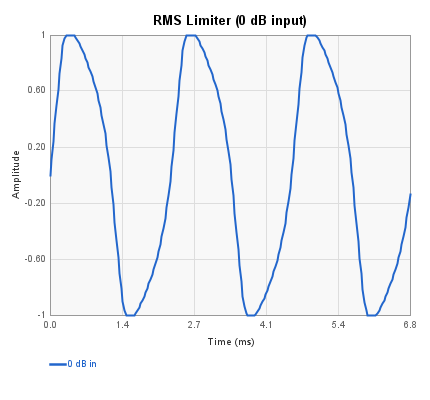
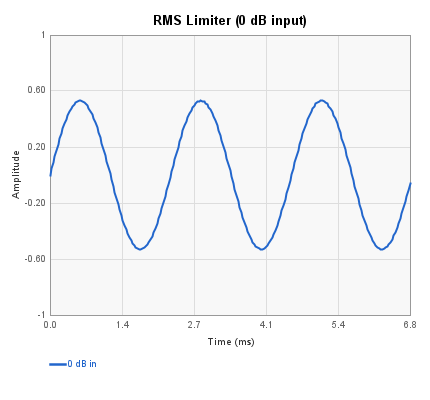
Fix RMS Limiter: detect at full scale, make sidechain optional
The RMS detector was starved by the default inGain=0.1, causing the
LOG/EXP gain chain to always return maximum (no reduction). Now detection
runs at full scale (1.0) and inGain controls output level only. When
Side Chain is not connected, gain is applied to the main input directly.
Averaging slowed from 0.1 to 0.001 to match RMS Lim/Exp behavior.

diff --git a/src-gen/com/holycityaudio/SpinCAD/CADBlocks/rms_limiterCADBlock.java b/src-gen/com/holycityaudio/SpinCAD/CADBlocks/rms_limiterCADBlock.java
@@ -36,8 +36,8 @@
 			private int output;
 			private int square;
 			private int logPin;
-			private double inGain = 0.1;
-			private double filt = 0.1;
+			private double inGain = 1.0;
+			private double filt = 0.001;
 
 			public rms_limiterCADBlock(int x, int y) {
 				super(x, y);
@@ -97,7 +97,7 @@
 			square = sfxb.allocateReg();
 			logPin = sfxb.allocateReg();
 			if(this.getPin("Input").isConnected() == true) {
-			sfxb.readRegister(input, inGain);
+			sfxb.readRegister(input, 1.0);
 			sfxb.writeRegister(sigin, 1);
 			sfxb.mulx(sigin);
 			sfxb.writeRegister(square, 1.0);
@@ -106,8 +106,14 @@
 			sfxb.log(-0.5, -0.125);
 			sfxb.writeRegister(logPin, 1.0);
 			sfxb.exp(1, 0);
-			sfxb.writeRegister(rms, 1);
-			sfxb.mulx(sidechain);
+			sfxb.writeRegister(rms, 0);
+			if(this.getPin("Side Chain").isConnected() == true) {
+			sfxb.readRegister(sidechain, inGain);
+			} else {
+			sfxb.readRegister(input, inGain);
+			}
+			
+			sfxb.mulx(rms);
 			sfxb.scaleOffset(1.5, 0);
 			sfxb.writeRegister(output, 0);
 			this.getPin("Output").setRegister(output);

diff --git a/src/test/java/com/holycityaudio/SpinCAD/DynamicsDocTest.java b/src/test/java/com/holycityaudio/SpinCAD/DynamicsDocTest.java
@@ -250,7 +250,7 @@ public class DynamicsDocTest {
         double[] outputDb = new double[inputDb.length];
         for (int li = 0; li < inputDb.length; li++) {
             rms_limiterCADBlock b = new rms_limiterCADBlock(100, 100);
-            b.setinGain(0.5);
+            b.setinGain(1.0);
             outputDb[li] = measureDb(b, "Output", inputDb[li]);
         }
 
@@ -269,7 +269,7 @@ public class DynamicsDocTest {
         // Waveform at 0 dB to show distortion
         File sineWav = generateSineWav(0.5, 440, 1.0);
         rms_limiterCADBlock b0 = new rms_limiterCADBlock(100, 100);
-        b0.setinGain(0.5);
+        b0.setinGain(1.0);
         short[] stereo = simulate(b0, sineWav, null, "Output", null, tempDir);
         if (stereo != null) {
             double[] audio = toDouble(extractChannel(stereo, 0));
